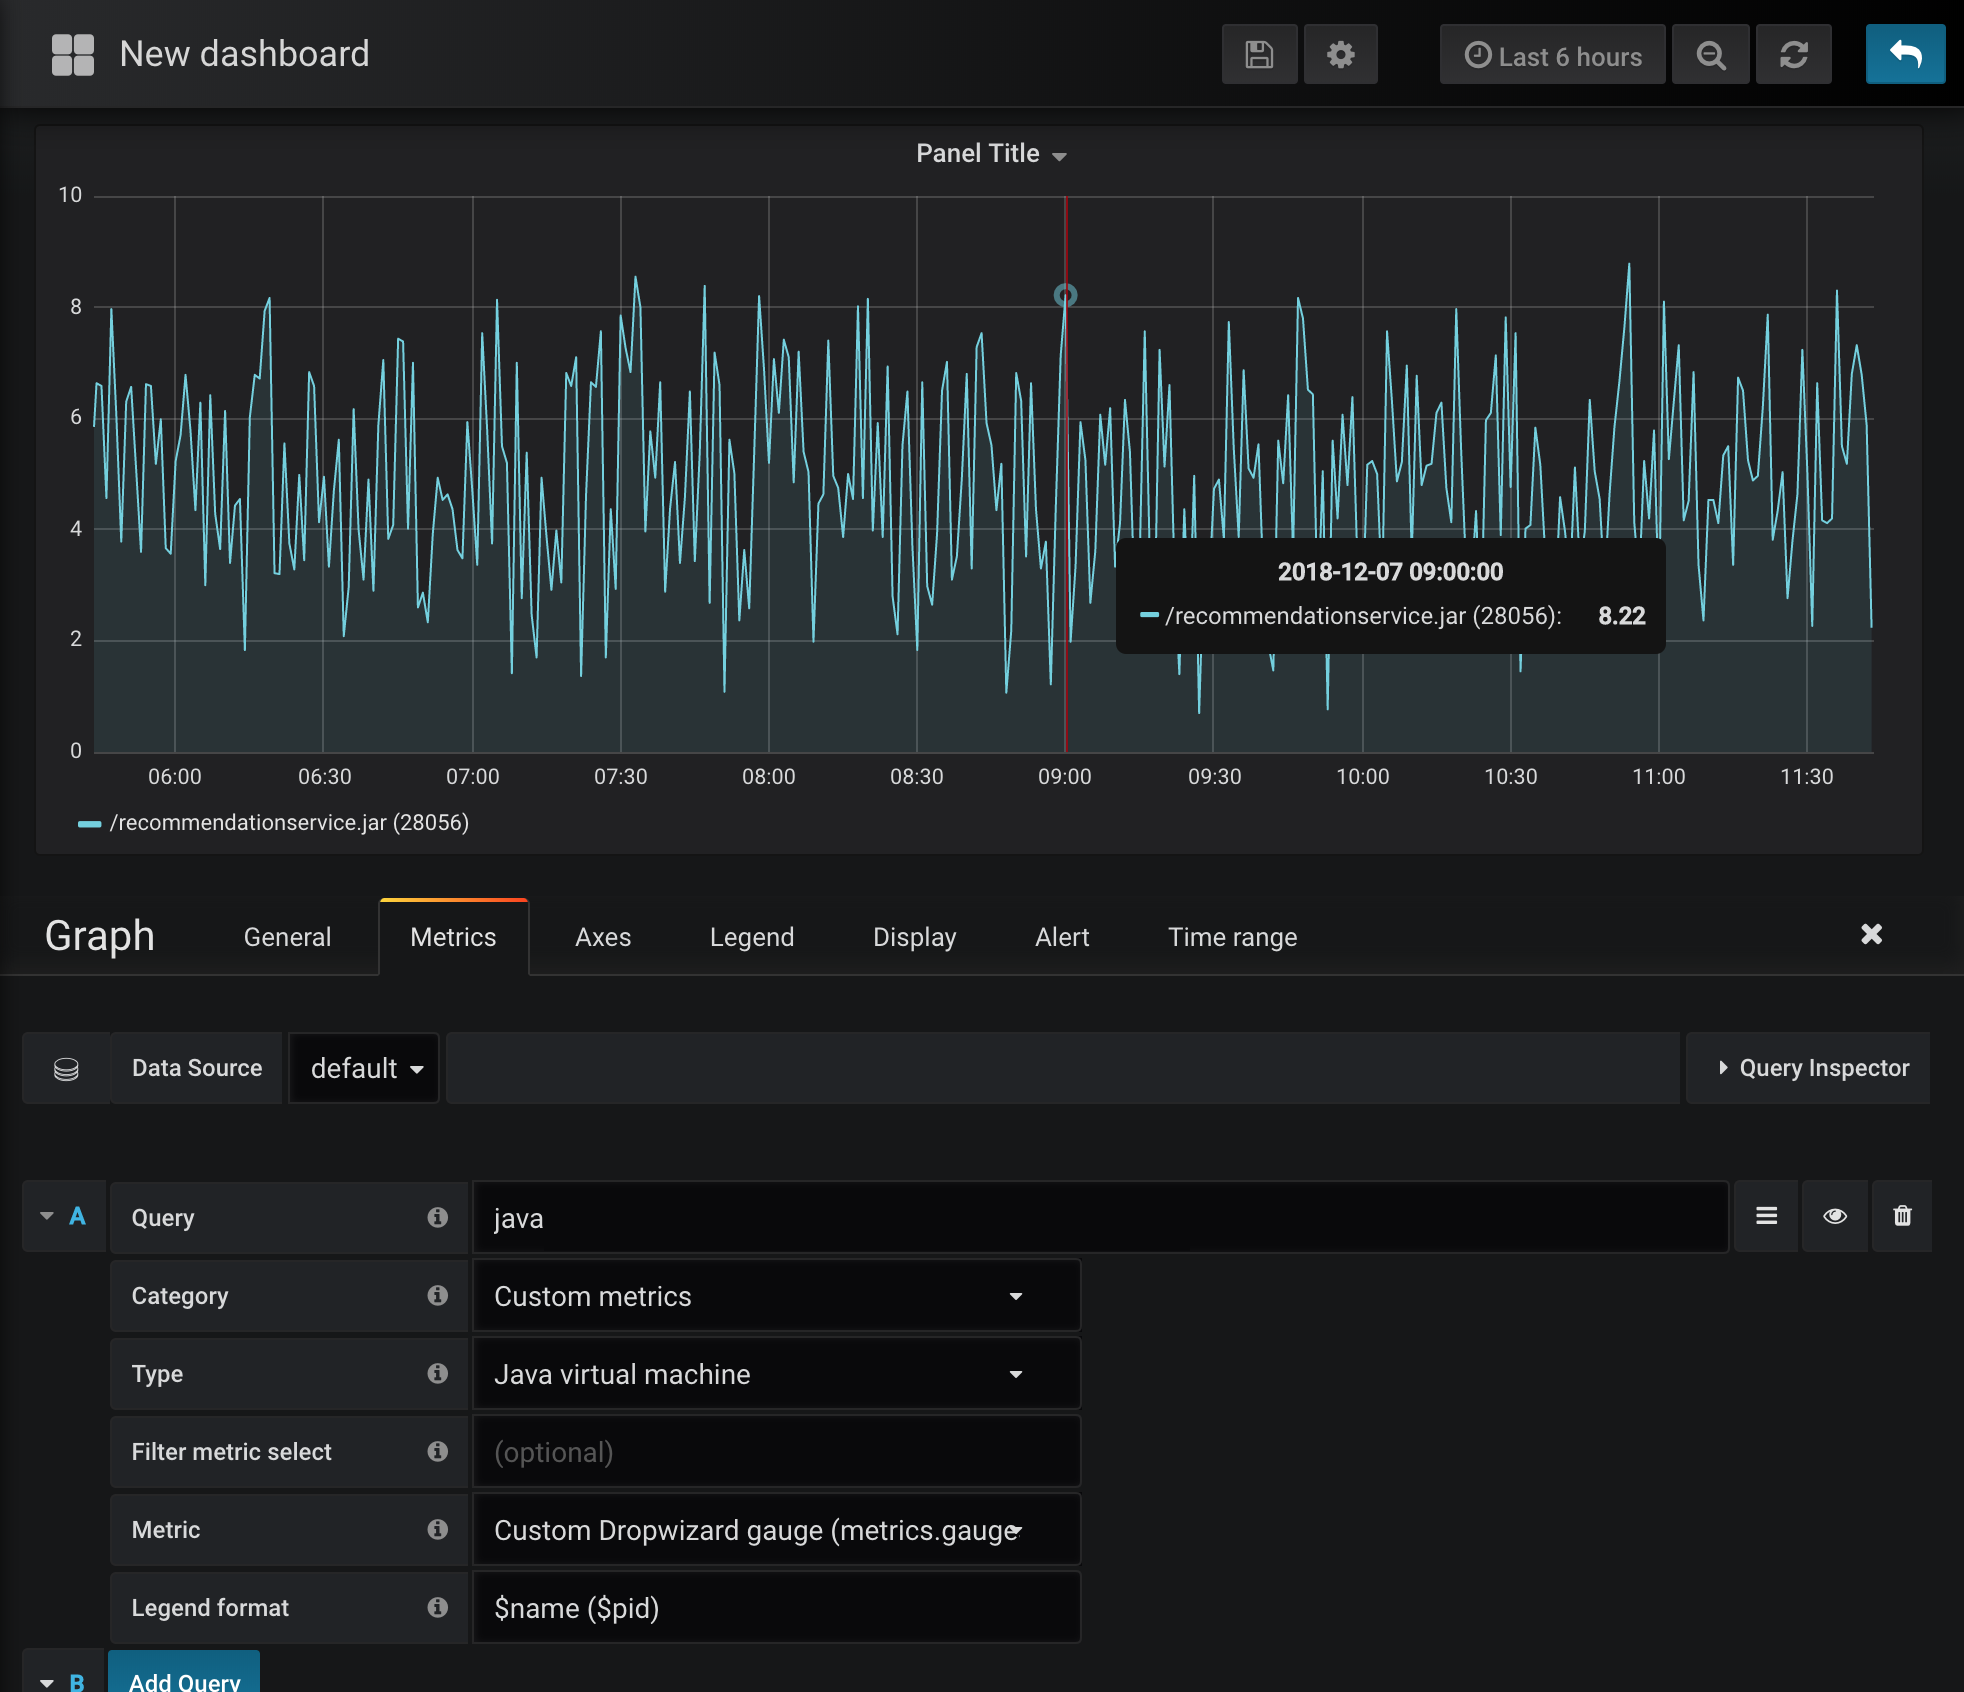
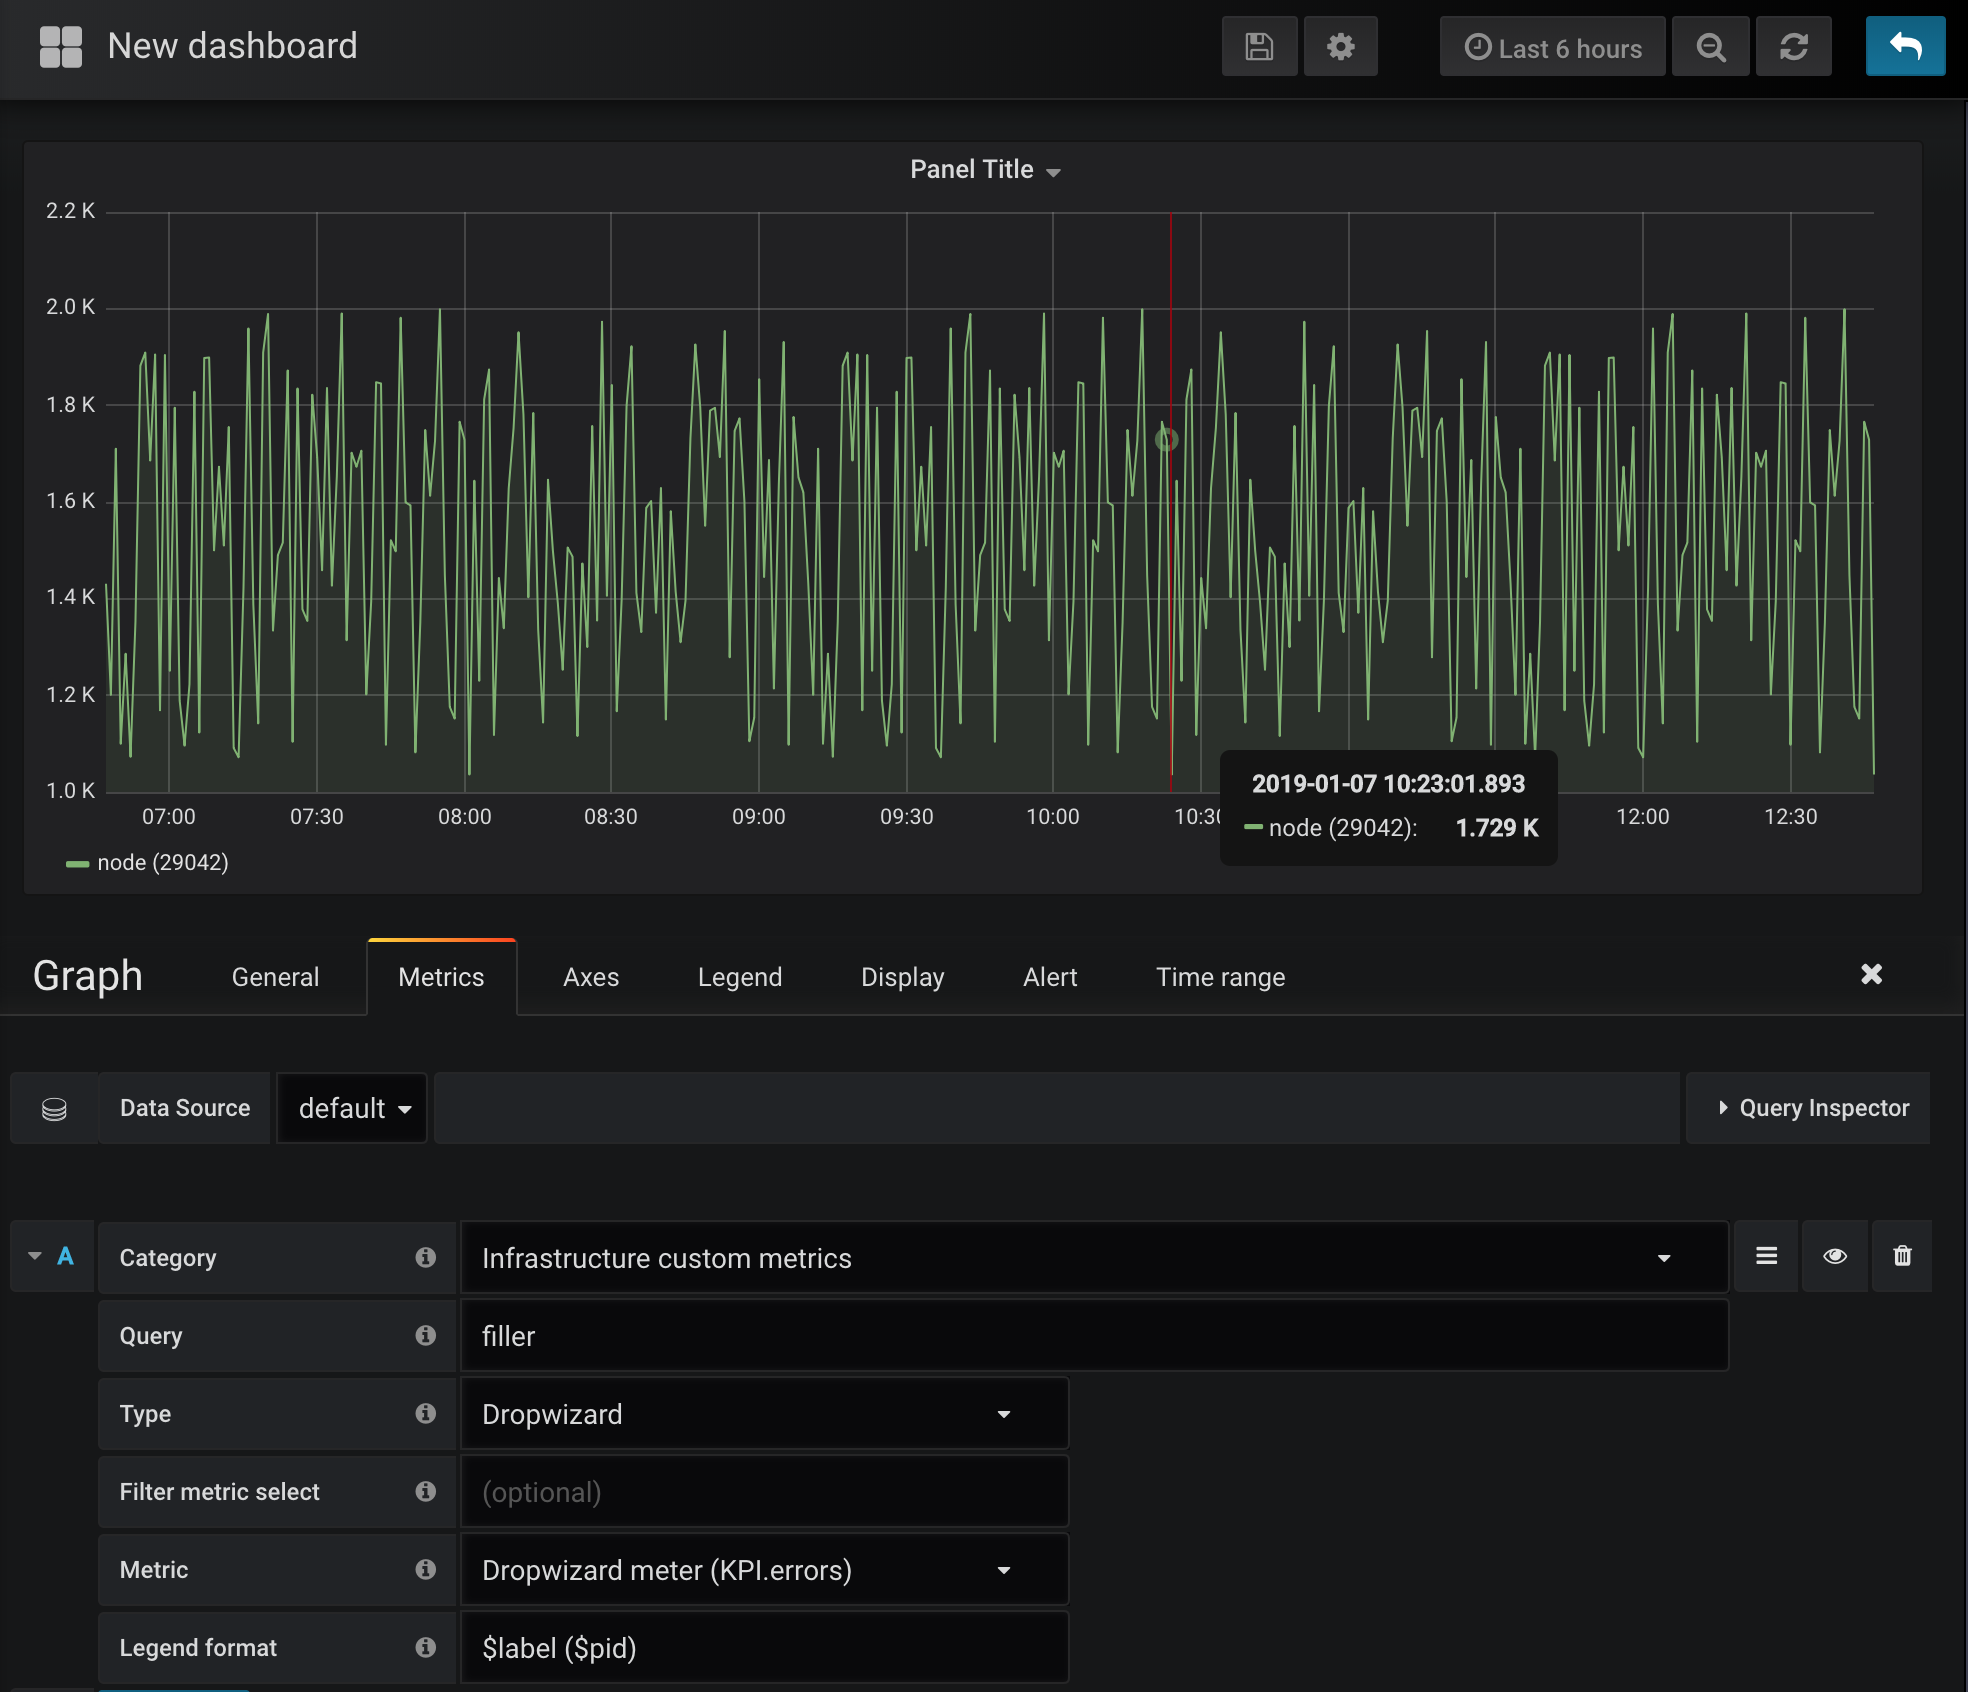
adjust doku to new website metrics

diff --git a/README.md b/README.md
@@ -4,7 +4,7 @@ This is a Grafana datasource for showing metrics from Instana AI-Powered APM for
 
 ## Requirements
 
-Attention: For On-premise customers Instana Release 145 is required.
+Attention: For On-premise customers Instana Release 146 is required.
 
 ## Features
 
@@ -27,7 +27,7 @@ This datasource uses the Instana REST API to query the metric values. First of a
 
 To start, enter the [Dynamic Focus](https://docs.instana.io/core_concepts/dynamic_focus/) query. This is exactly the same as used in the Instana dashboard; you can test your queries in Instana and then copy and paste them into Grafana. *NOTE* Saved filters are not currently supported by the Grafana datasource plugin.
 
-#### Built-in metrics
+#### Infrastructure built-in metrics
 
 Once you filled in the query the available types dropdown will be automatically populated, select the type you want.
 
@@ -37,13 +37,13 @@ If your Dynamic Focus query matches multiple instances then, the returned datase
 
 ![multiple plot graph](https://raw.githubusercontent.com/instana/instana-grafana-datasource/master/screenshots/complete-query-sml.png)
 
-#### Custom metrics
+#### Infrastructure custom metrics
 
-To choose custom metrics matching your query you need to select "Custom metrics" from the category dropdown, which will automatically populate the available types dropdown.
+To choose custom metrics matching your query you need to select "Infrastructure custom metrics" from the category dropdown, which will automatically populate the available types dropdown.
 
 As you select the type, the available metrics dropdown will be automatically populated, select the metric you want. As there might be a huge amount of custom metrics, you can specify an optional filter to reduce to a corresponding subset.
 
-If your Dynamic Focus query matches multiple instances then, the returned dataset will include metrics from all those matching instances, providing graphs with multiple plots like the example below.
+If your Dynamic Focus query matches, the returned dataset will include metrics providing graphs like the example below.
 
 ![custom plot graph](https://raw.githubusercontent.com/instana/instana-grafana-datasource/master/screenshots/custom-metrics-sml.png)
 
@@ -59,3 +59,17 @@ To adjust the legend display you can provide an own "Legend format". Supported v
 - $name - a label alternative
 
 If no custom format is provided the default '_$label (on host $host)_' will be shown.
+
+#### Website metrics
+
+To choose EUM website metrics you need to select "Website metrics" from the category dropdown, which will populate all further available dropdown lists. While switching the most called website will be selected per default.
+
+If multiple aggregation types are available the selected metric can be exactly defined with a specific aggregation type.
+
+You can further more specify filters by adding them via "add Filter", if multiple filters are added they are connected via "AND".
+
+If your selection matches, the returned dataset will include metrics providing graphs like the example below.
+
+![website plot graph](https://raw.githubusercontent.com/instana/instana-grafana-datasource/master/screenshots/website-metrics-sml.png)
+
+A default label '_$name ($website) $metric_' will be shown.

diff --git a/dist/README.md b/dist/README.md
@@ -4,7 +4,7 @@ This is a Grafana datasource for showing metrics from Instana AI-Powered APM for
 
 ## Requirements
 
-Attention: For On-premise customers Instana Release 145 is required.
+Attention: For On-premise customers Instana Release 146 is required.
 
 ## Features
 
@@ -27,7 +27,7 @@ This datasource uses the Instana REST API to query the metric values. First of a
 
 To start, enter the [Dynamic Focus](https://docs.instana.io/core_concepts/dynamic_focus/) query. This is exactly the same as used in the Instana dashboard; you can test your queries in Instana and then copy and paste them into Grafana. *NOTE* Saved filters are not currently supported by the Grafana datasource plugin.
 
-#### Built-in metrics
+#### Infrastructure built-in metrics
 
 Once you filled in the query the available types dropdown will be automatically populated, select the type you want.
 
@@ -37,13 +37,13 @@ If your Dynamic Focus query matches multiple instances then, the returned datase
 
 ![multiple plot graph](https://raw.githubusercontent.com/instana/instana-grafana-datasource/master/screenshots/complete-query-sml.png)
 
-#### Custom metrics
+#### Infrastructure custom metrics
 
-To choose custom metrics matching your query you need to select "Custom metrics" from the category dropdown, which will automatically populate the available types dropdown.
+To choose custom metrics matching your query you need to select "Infrastructure custom metrics" from the category dropdown, which will automatically populate the available types dropdown.
 
 As you select the type, the available metrics dropdown will be automatically populated, select the metric you want. As there might be a huge amount of custom metrics, you can specify an optional filter to reduce to a corresponding subset.
 
-If your Dynamic Focus query matches multiple instances then, the returned dataset will include metrics from all those matching instances, providing graphs with multiple plots like the example below.
+If your Dynamic Focus query matches, the returned dataset will include metrics providing graphs like the example below.
 
 ![custom plot graph](https://raw.githubusercontent.com/instana/instana-grafana-datasource/master/screenshots/custom-metrics-sml.png)
 
@@ -59,3 +59,17 @@ To adjust the legend display you can provide an own "Legend format". Supported v
 - $name - a label alternative
 
 If no custom format is provided the default '_$label (on host $host)_' will be shown.
+
+#### Website metrics
+
+To choose EUM website metrics you need to select "Website metrics" from the category dropdown, which will populate all further available dropdown lists. While switching the most called website will be selected per default.
+
+If multiple aggregation types are available the selected metric can be exactly defined with a specific aggregation type.
+
+You can further more specify filters by adding them via "add Filter", if multiple filters are added they are connected via "AND".
+
+If your selection matches, the returned dataset will include metrics providing graphs like the example below.
+
+![website plot graph](https://raw.githubusercontent.com/instana/instana-grafana-datasource/master/screenshots/website-metrics-sml.png)
+
+A default label '_$name ($website) $metric_' will be shown.

diff --git a/CONTRIBUTING.md b/CONTRIBUTING.md
@@ -45,11 +45,7 @@ The settings for Karma are in the karma.conf.js file in the root. If you add any
 
 ## Screenshots
 
-The actual screenshots are from https://current-instana.instana.io with "java AND one IP" (where the ip is removed in screen) as dynamic focus and a sliding time window of 6 hours.
-Showcaseable metrics are
-* Built-In -> Processes -> user.cpu
-* Custom -> Java virtual maschine -> metrics.gauges.gauge.response.healthcheck
-
+The actual screenshots are from "Quick Check" example below.
 
 ## Publishing a New Version
 
